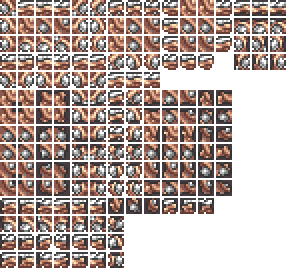
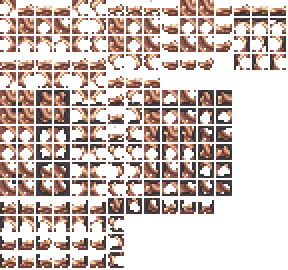
More horizon brick stuff (mild trypophobia warning on textures i guess)

diff --git a/Content/Guardian/Tiles/HorizonBrickTile.cs b/Content/Guardian/Tiles/HorizonBrickTile.cs
@@ -4,9 +4,11 @@ using Microsoft.Xna.Framework.Graphics;
 using OrchidMod.Content.Guardian.Misc;
 using OrchidMod.Content.Guardian.Projectiles.Misc;
 using OrchidMod.Utilities;
+using ReLogic.Content;
 using Terraria;
 using Terraria.DataStructures;
 using Terraria.GameContent;
+using Terraria.GameContent.Drawing;
 using Terraria.ID;
 using Terraria.ModLoader;
 
@@ -14,7 +16,7 @@ namespace OrchidMod.Content.Guardian.Tiles;
 
 public class HorizonBrickTile : ModTile
 {
-	public Texture2D GlowMask;
+	public Asset<Texture2D> GlowMask;
 
 	
 	public override void SetStaticDefaults()
@@ -28,17 +30,14 @@ public class HorizonBrickTile : ModTile
 		HitSound = SoundID.Tink;
 		AddMapEntry(new Color(159, 122, 163));
 		
-		
-
-		GlowMask ??= ModContent.Request<Texture2D>(Texture + "_Glow").Value;
+		GlowMask = ModContent.Request<Texture2D>(Texture + "_Glow");
 	}
 	
 	public override void ModifyLight(int i, int j, ref float r, ref float g, ref float b)
 	{
-		Vector3 horizonColor = HorizonBrick.HorizonBrickColor.ToVector3() * 0.5f;
-		r = horizonColor.X;
-		g = horizonColor.Y;
-		b = horizonColor.Z;
+		r = 0.5f;
+		g = 0.33f;
+		b = 0.5f;
 	}
 
 	public override void NumDust(int i, int j, bool fail, ref int num) => num = fail ? 1 : 3;
@@ -60,9 +59,34 @@ public class HorizonBrickTile : ModTile
 	// 	return false;
 	// }
 	
-	public override void DrawEffects(int i, int j, SpriteBatch spriteBatch, ref TileDrawInfo drawData)
+	public override bool PreDraw(int i, int j, SpriteBatch spriteBatch)
 	{
-		drawData.drawTexture = GlowMask;
-		drawData.glowColor = HorizonBrick.HorizonBrickColor;
+		Tile tile = Main.tile[i, j];
+		Vector2 zero = Main.drawToScreen ? Vector2.Zero : new Vector2(Main.offScreenRange);
+
+		Texture2D texture = TextureAssets.Tile[Type].Value;
+		spriteBatch.Draw(
+			texture,
+			new Vector2(i * 16f, j * 16f) - Main.screenPosition + zero,
+			new Rectangle(tile.TileFrameX, tile.TileFrameY, 16, 16),
+			Lighting.GetColor(i, j),
+			0f, Vector2.Zero, 1f, SpriteEffects.None, 0f
+		);
+		
+		spriteBatch.Draw(
+			GlowMask.Value,
+			new Vector2(i * 16f, j * 16f) - Main.screenPosition + zero,
+			new Rectangle(tile.TileFrameX, tile.TileFrameY, 16, 16),
+			Lighting.GetColor(i, j, HorizonBrick.HorizonBrickColor),
+			0f, Vector2.Zero, 1f, SpriteEffects.None, 0f
+		);
+
+		return false;
 	}
+	
+	// public override void DrawEffects(int i, int j, SpriteBatch spriteBatch, ref TileDrawInfo drawData)
+	// {
+	// 	drawData.drawTexture = GlowMask;
+	// 	drawData.glowColor = HorizonBrick.HorizonBrickColor;
+	// }
 }

diff --git a/Content/Guardian/Misc/HorizonBrick.cs b/Content/Guardian/Misc/HorizonBrick.cs
@@ -4,6 +4,7 @@ using Microsoft.Xna.Framework.Graphics;
 using OrchidMod.Content.Guardian.Projectiles.Misc;
 using OrchidMod.Content.Guardian.Tiles;
 using OrchidMod.Utilities;
+using ReLogic.Content;
 using Terraria;
 using Terraria.ID;
 using Terraria.ModLoader;
@@ -13,9 +14,9 @@ namespace OrchidMod.Content.Guardian.Misc
 {
 	public class HorizonBrick : ModItem
 	{
-		public Texture2D GlowMask;
+		public Asset<Texture2D> GlowMask;
 		
-		public static Color HorizonBrickColor => GuardianHorizonLanceAnchor.GetHorizonGlowColor(Math.Sin(Main.timeForVisualEffects * 0.005f), 0.4f + (float)Math.Cos(Main.timeForVisualEffects * 0.01f) * 0.1f);
+		public static Color HorizonBrickColor => GuardianHorizonLanceAnchor.GetHorizonGlowColor(Math.Sin(Main.timeForVisualEffects * 0.02f), 0.6f + (float)Math.Cos(Main.timeForVisualEffects * 0.04f) * 0.1f, 0.8f);
 
 
 		public override void SetStaticDefaults()
@@ -28,12 +29,12 @@ namespace OrchidMod.Content.Guardian.Misc
 			Item.width = 20;
 			Item.height = 20;
 			
-			GlowMask ??= ModContent.Request<Texture2D>(Texture + "_Glow").Value;
+			GlowMask = ModContent.Request<Texture2D>(Texture + "_Glow");
 		}
 
 		public override bool PreDrawInInventory(SpriteBatch spriteBatch, Vector2 position, Rectangle frame, Color drawColor, Color itemColor, Vector2 origin, float scale)
 		{
-			spriteBatch.Draw(GlowMask, position, null, HorizonBrickColor, 0f, GlowMask.Size() * 0.5f, scale, SpriteEffects.None, 0f);
+			spriteBatch.Draw(GlowMask.Value, position, null, HorizonBrickColor, 0f, GlowMask.Size() * 0.5f, scale, SpriteEffects.None, 0f);
 
 			return true;
 		}
@@ -44,7 +45,7 @@ namespace OrchidMod.Content.Guardian.Misc
 			Vector2 drawOrigin = itemFrame.Size() * 0.5f;
 			Vector2 drawPosition = Item.Bottom - Main.screenPosition - new Vector2(0, drawOrigin.Y);
 			
-			spriteBatch.Draw(GlowMask, drawPosition, itemFrame, Lighting.GetColor((int)(Item.position.X / 16f), (int)(Item.position.Y / 16f), HorizonBrickColor), rotation, GlowMask.Size() * 0.5f, scale, SpriteEffects.None, 0f);
+			spriteBatch.Draw(GlowMask.Value, drawPosition, itemFrame, Lighting.GetColor((int)(Item.position.X / 16f), (int)(Item.position.Y / 16f), HorizonBrickColor), rotation, GlowMask.Size() * 0.5f, scale, SpriteEffects.None, 0f);
 			
 			return true;
 		}
